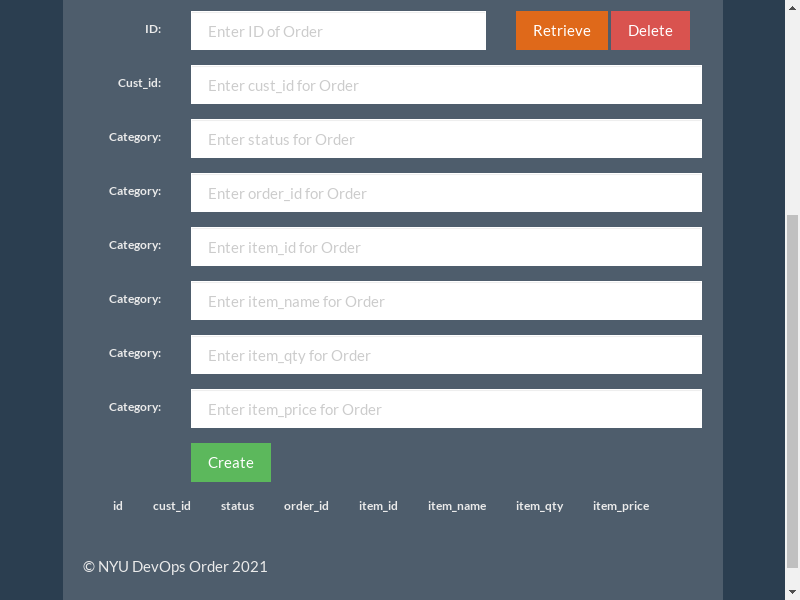
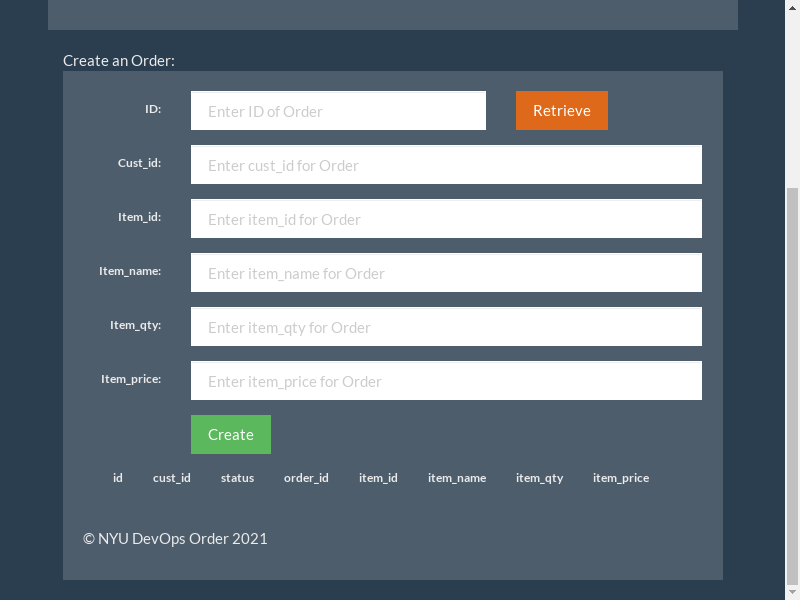
create button won't work

diff --git a/service/static/index.html b/service/static/index.html
@@ -39,7 +39,7 @@
         </div>
         
         <div class="col-md-12" id="form_data">
-          Create a Pet:
+          Create an Order:
           <div class="well">
             <div class="form-horizontal">
               <div class="form-group">
@@ -49,7 +49,7 @@
                 </div>
                 <div class="col-sm-4">
                   <button type="submit" class="btn btn-primary" id="retrieve-btn">Retrieve</button>
-                  <button type="submit" class="btn btn-danger" id="delete-btn">Delete</button>
+                  <!-- <button type="submit" class="btn btn-danger" id="delete-btn">Delete</button> -->
                 </div>
               </div>
             </div> <!-- form div -->
@@ -61,38 +61,32 @@
                   <input type="text" class="form-control" id="cust_id" placeholder="Enter cust_id for Order">
                 </div>
               </div>
-              <div class="form-group">
-                <label class="control-label col-sm-2" for="status">Category:</label>
-                <div class="col-sm-10">
-                  <input type="text" class="form-control" id="status" placeholder="Enter status for Order">
-                </div>
-              </div>
-              <div class="form-group">
-                <label class="control-label col-sm-2" for="order_id">Category:</label>
+              <!-- <div class="form-group">
+                <label class="control-label col-sm-2" for="order_id">Order_id:</label>
                 <div class="col-sm-10">
                   <input type="text" class="form-control" id="order_id" placeholder="Enter order_id for Order">
                 </div>
-              </div>
+              </div> -->
               <div class="form-group">
-                <label class="control-label col-sm-2" for="item_id">Category:</label>
+                <label class="control-label col-sm-2" for="item_id">Item_id:</label>
                 <div class="col-sm-10">
                   <input type="text" class="form-control" id="item_id" placeholder="Enter item_id for Order">
                 </div>
               </div>
               <div class="form-group">
-                <label class="control-label col-sm-2" for="item_name">Category:</label>
+                <label class="control-label col-sm-2" for="item_name">Item_name:</label>
                 <div class="col-sm-10">
                   <input type="text" class="form-control" id="item_name" placeholder="Enter item_name for Order">
                 </div>
               </div>
               <div class="form-group">
-                <label class="control-label col-sm-2" for="item_qty">Category:</label>
+                <label class="control-label col-sm-2" for="item_qty">Item_qty:</label>
                 <div class="col-sm-10">
                   <input type="text" class="form-control" id="item_qty" placeholder="Enter item_qty for Order">
                 </div>
               </div>
               <div class="form-group">
-                <label class="control-label col-sm-2" for="item_price">Category:</label>
+                <label class="control-label col-sm-2" for="item_price">Item_price:</label>
                 <div class="col-sm-10">
                   <input type="text" class="form-control" id="item_price" placeholder="Enter item_price for Order">
                 </div>

diff --git a/service/static/js/rest_api.js b/service/static/js/rest_api.js
@@ -25,7 +25,7 @@ $(function () {
     }
 
     // ****************************************
-    // Retrieve a Pet
+    // Retrieve an Order
     // ****************************************
 
     $("#retrieve-btn").click(function () {
@@ -60,7 +60,6 @@ $(function () {
     $("#create-btn").click(function () {
 
         var cust_id =  $("#cust_id").val();
-        // var status = $("#status").val();
         var item_id = $("#item_id").val();
         var item_name = $("#item_name").val()
         var item_qty = $("#item_qty").val()
@@ -79,7 +78,6 @@ $(function () {
 
         var data = {
             "cust_id": cust_id,
-            // "status": status,
             "order_items": item_list
         };
 
